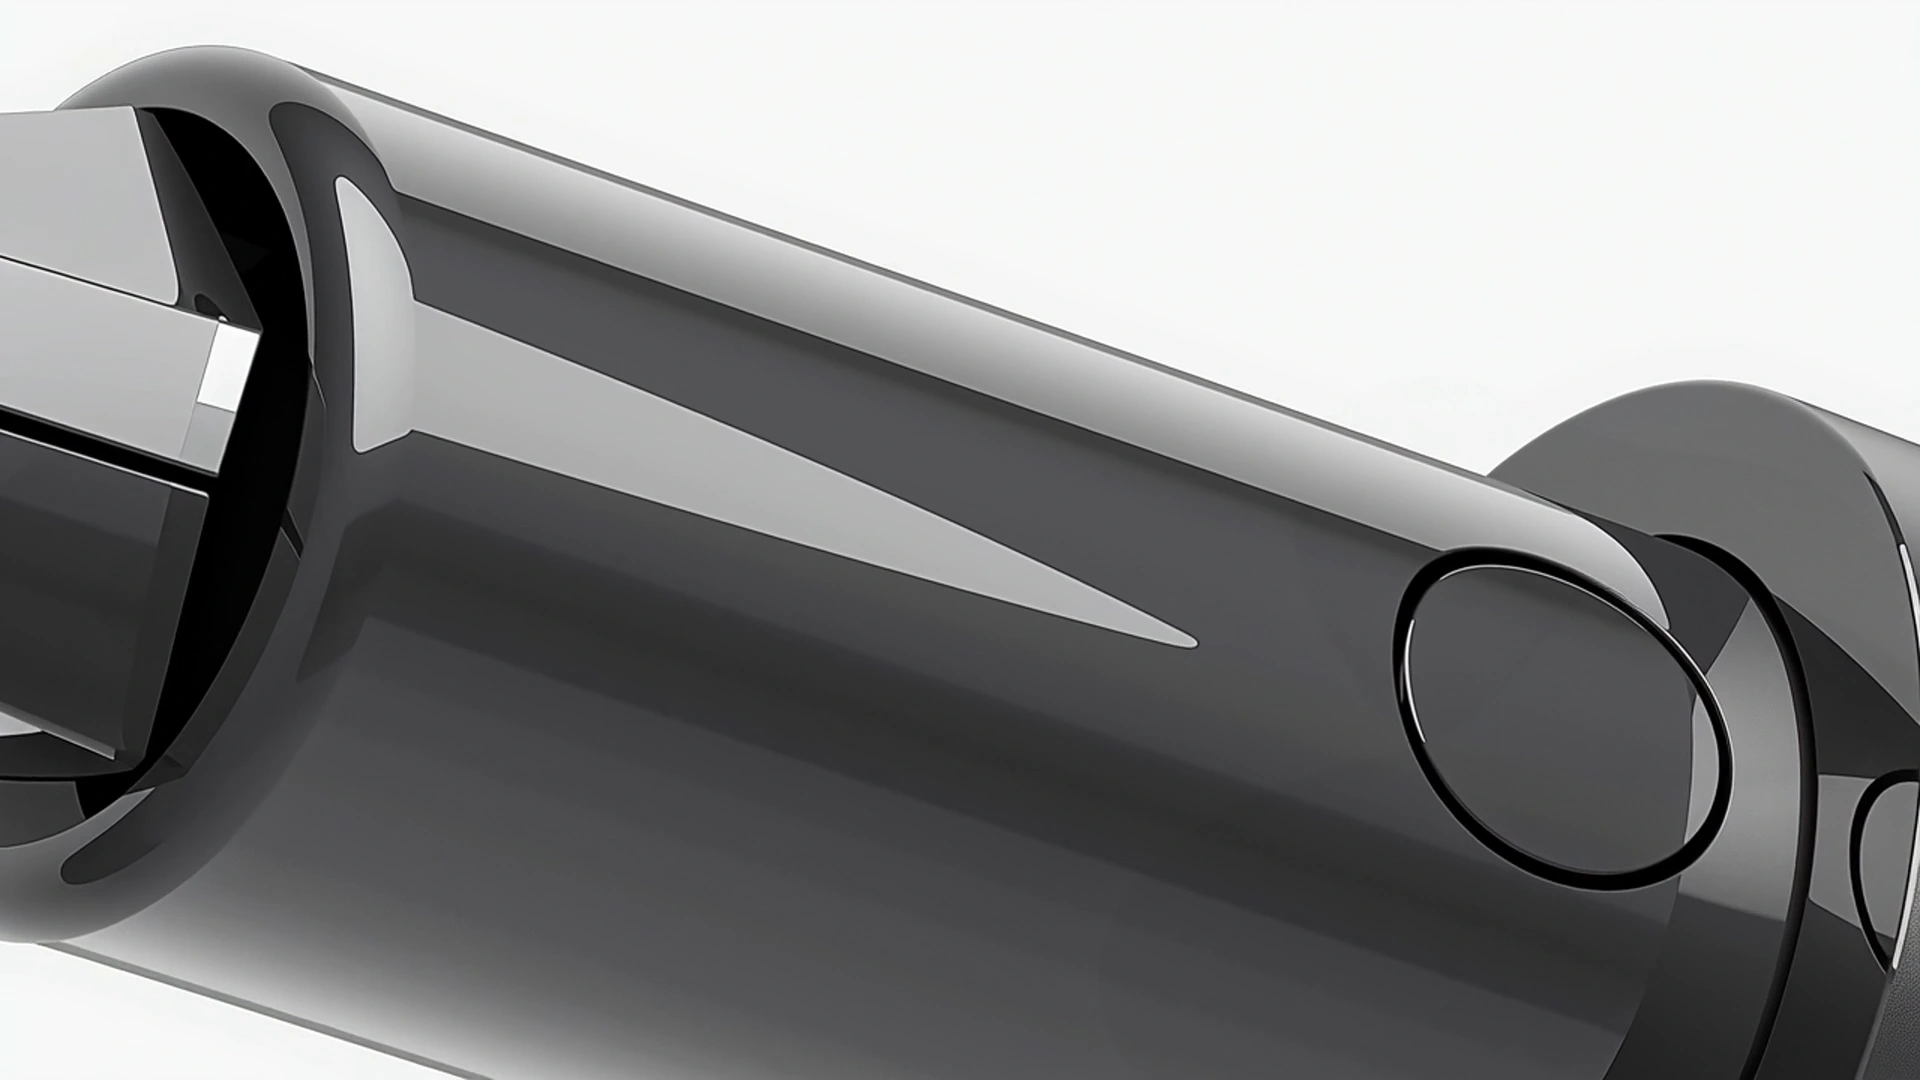
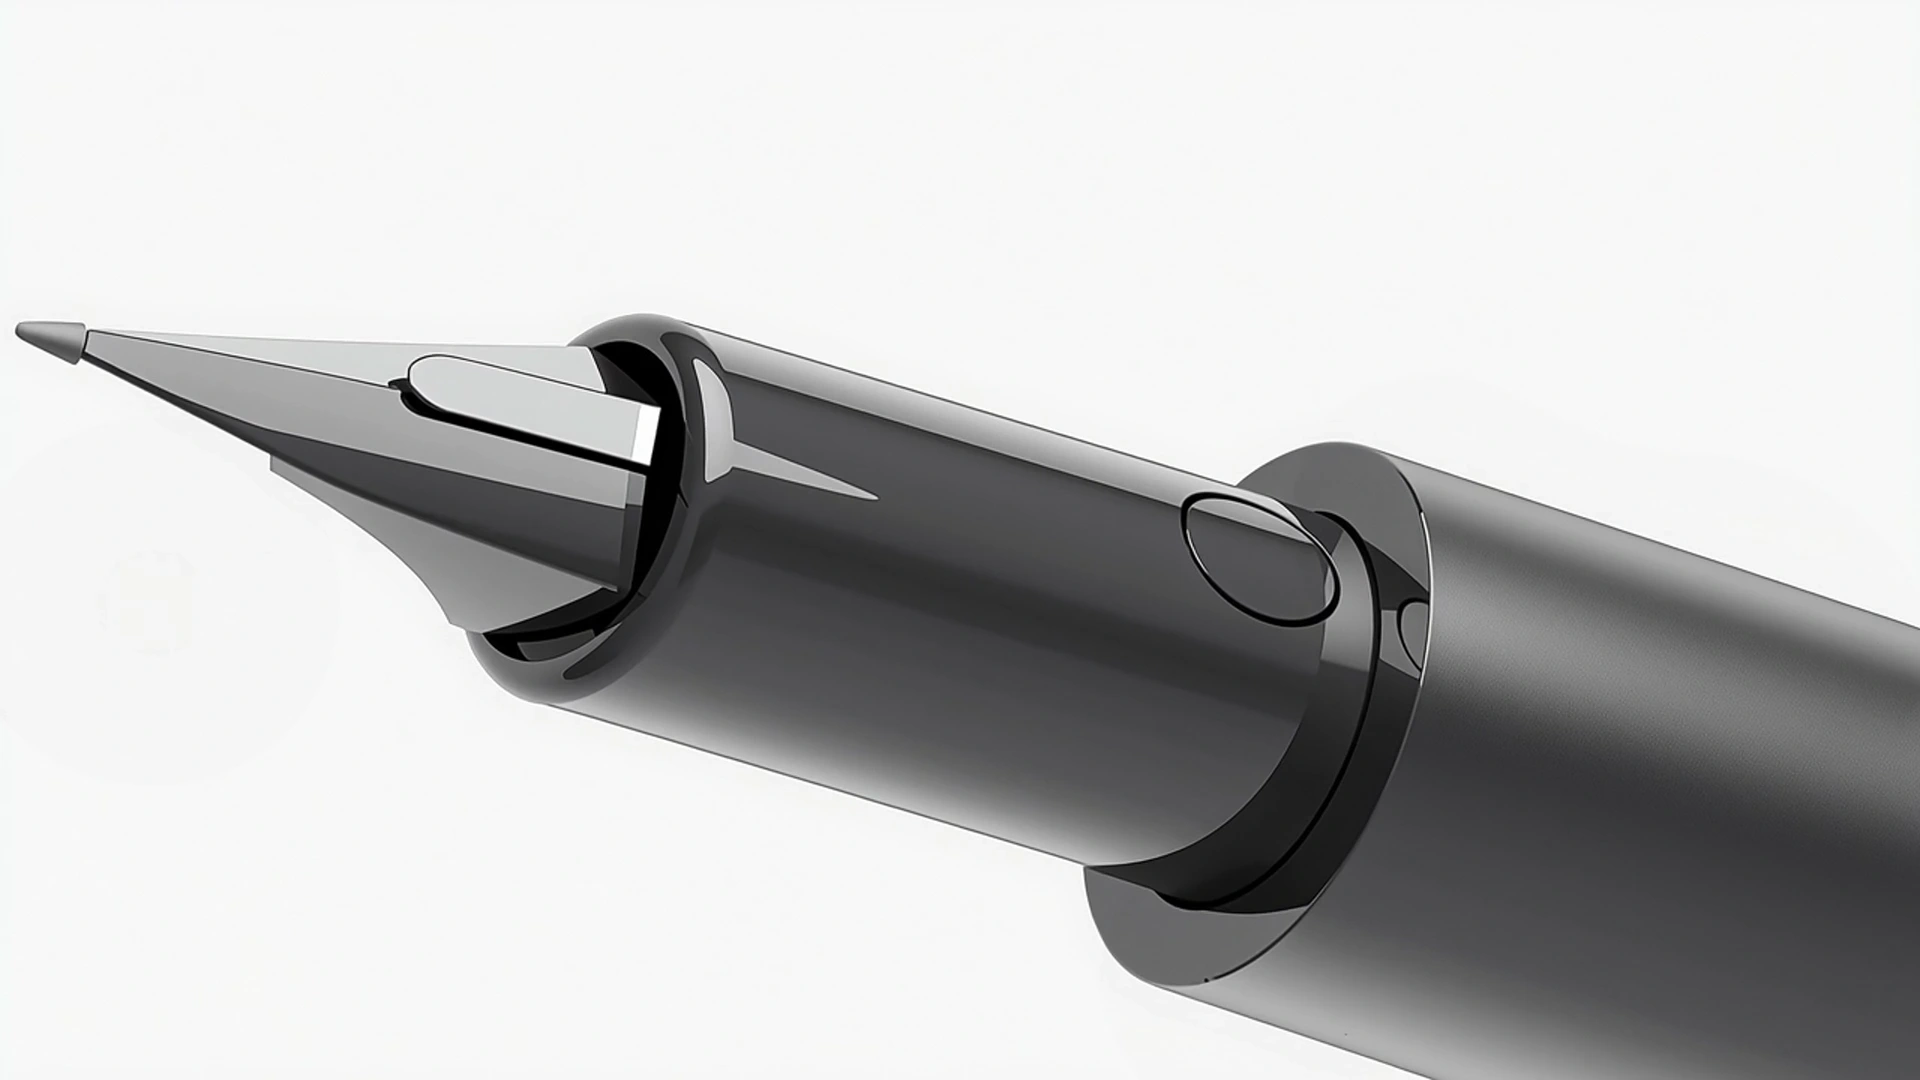
Start the nib zoom from the wider pen view

diff --git a/tests/homepage.spec.ts b/tests/homepage.spec.ts
@@ -815,12 +815,14 @@ test('the gallery follows scroll and the blue and nib photos loop on their own',
     const opacity = await alpha(index);
     return opacity > .08 && opacity < .95;
   }).toBe(true);
-  const expectZoomLoop = async (index: number, clip: string) => {
+  const expectZoomLoop = async (index: number, clip: string, peak = 1.34) => {
     const figure = figures.nth(index);
     const artwork = figure.locator('.artwork');
     const photo = artwork.locator('img');
     const scale = () => zoom(index, '.artwork img');
+    const zoomRange = peak - 1;
     await expect(photo).toHaveCSS('animation-iteration-count', 'infinite');
+    await expect(photo).toHaveCSS('animation-duration', '6s');
     await expect(artwork).toHaveCSS('transform', 'none');
     const scrollBeforeZoom = await readScroll(page);
     await photo.evaluate(async node => {
@@ -828,11 +830,11 @@ test('the gallery follows scroll and the blue and nib photos loop on their own',
       await animation.ready;
       animation.currentTime = Number(animation.effect!.getTiming().duration) * .9;
     });
-    await expect.poll(scale).toBeGreaterThan(1.28);
+    await expect.poll(scale).toBeGreaterThan(1 + zoomRange * .83);
     await expect(figure).toHaveCSS('clip-path', clip);
-    await expect.poll(scale).toBeLessThan(1.07);
+    await expect.poll(scale).toBeLessThan(1 + zoomRange * .2);
     await expect(figure).toHaveCSS('clip-path', clip);
-    await expect.poll(scale).toBeGreaterThan(1.08);
+    await expect.poll(scale).toBeGreaterThan(1 + zoomRange * .24);
     expect(await readScroll(page)).toBe(scrollBeforeZoom);
   };
 
@@ -870,7 +872,7 @@ test('the gallery follows scroll and the blue and nib photos loop on their own',
 
   await seek(3, .49);
   await expect(figures.nth(3)).toHaveCSS('opacity', '1');
-  await expectZoomLoop(3, 'inset(0px round 29% / 50%)');
+  await expectZoomLoop(3, 'inset(0px round 29% / 50%)', 2.55);
 
   await seek(5, .70);
   await fading(5);

diff --git a/src/app/globals.css b/src/app/globals.css
@@ -416,7 +416,7 @@ img { display: block; }
 .box-detail:nth-child(6) { aspect-ratio: .767; border-radius: 25% / 19%; }
 @keyframes detail-zoom-in {
   from { transform: scale(1); }
-  to { transform: scale(1.34); }
+  to { transform: scale(var(--detail-zoom-end, 1.34)); }
 }
 @media (prefers-reduced-motion: no-preference) {
   .box-detail:is(:nth-child(2), :nth-child(4)) .artwork img { animation: detail-zoom-in 6s linear infinite; }
@@ -436,7 +436,7 @@ img { display: block; }
   .box-detail:nth-child(1) { grid-area: cap; aspect-ratio: 1.18; }
   .box-detail:nth-child(2) { grid-area: finishes; aspect-ratio: auto; }
   .box-detail:nth-child(3) { grid-area: button; }
-  .box-detail:nth-child(4) { grid-area: nib; }
+  .box-detail:nth-child(4) { grid-area: nib; --detail-zoom-end: 2.55; }
   .box-detail:nth-child(5) { grid-area: barrel; }
   .box-detail:nth-child(6) { grid-area: machining; align-self: start; }
   .box-detail:nth-child(n+7) { grid-column: span 2; }
